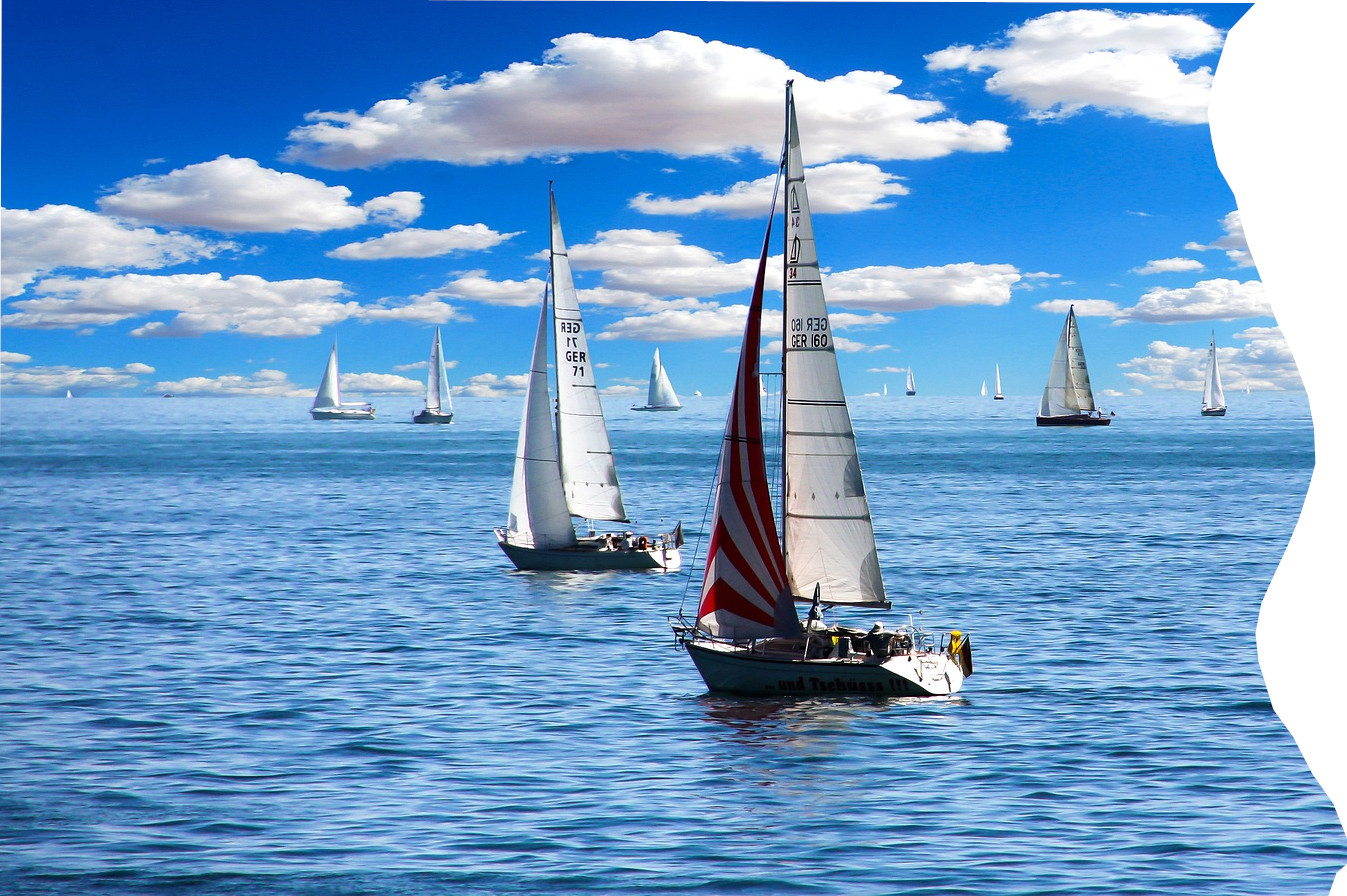
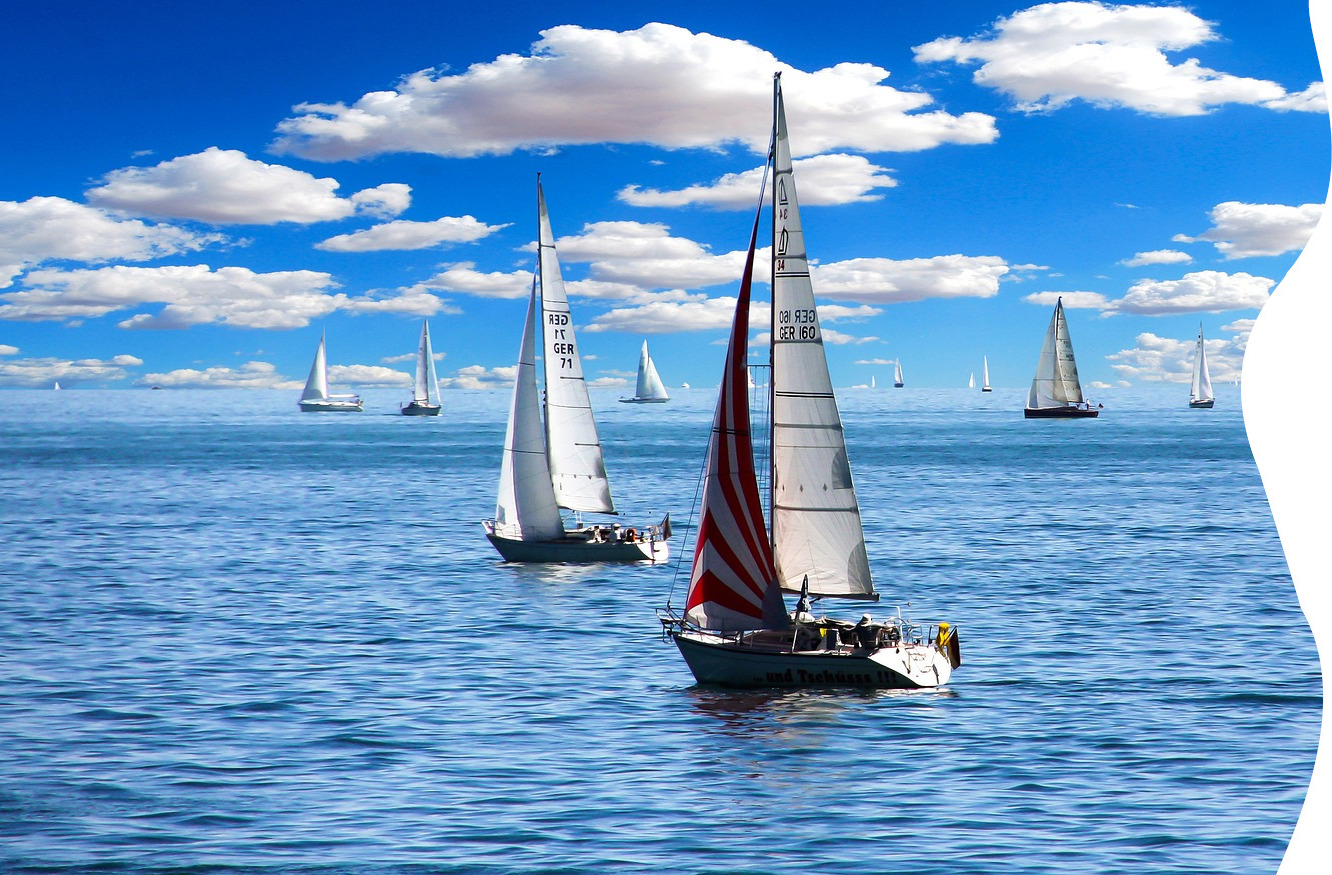
mobilka

diff --git a/style.css b/style.css
@@ -1,13 +1,16 @@
+
+@import url('https://fonts.googleapis.com/css?family=Amatic+SC|Bungee+Shade|Poiret+One&display=swap&subset=latin-ext');
 *{
     padding: 0;
     margin: 0;
+font-family: 'Poiret One', cursive;
 }
 
 main {
     background-image: url(lodka.jpg);
     background-repeat: no-repeat;
     background-position: right;
-    background-size: cover;
+    background-size:cover;
     width: 80%;
     height:100vh;
     padding: 0;
@@ -15,7 +18,10 @@ main {
     transition: 1s;
     float: left;
 }
-
+body
+{
+  overflow: hidden;
+}
 section
 {
   transition: 1s;
@@ -23,18 +29,23 @@ section
   width: 20%;
   height: 100vh;
 }
+#zaloguj
+{
+
+}
 #rozwiniecie
 {
   height: 50vh;
   display: none;
-  margin-top: 25vh;
-  overflow:visible;
-white-space: nowrap;
+  margin-top: 15vh;
+
 text-align: center;
+
 }
 #rozwiniecie form
 {
   font-size: 30px;
+  margin-top: 20px;
 }
 #zaloguj
 {
@@ -45,13 +56,15 @@ text-align: center;
   font-size: 80px;
 
 }
-h1{
- font-size: 50px;
+#rozwiniecie h1{
+ font-size: 80px;
 }
 #rozwiniecie p
 {
   font-size: 60px;
-  padding: 10px;
+  padding: 20px;
+
+
 }
 section input
 {
@@ -60,9 +73,10 @@ section input
       background: transparent;
       outline: none;
       color: black;
-      font-size: 16px;
+      font-size: 30px;
       padding: 10px;
-      width: 50%;
+      margin-bottom: 30px;
+      width: 70%;
 }
 section input[type="submit"]
 {
@@ -74,7 +88,9 @@ section input[type="submit"]
     font-size: 40px;
     width: 150px;
     border-radius: 20px;
-    margin: 20px;
+    margin: 40px;
+    font-weight: bold;
+
 }
 
 @media (max-width: 1000px)
@@ -96,7 +112,7 @@ section input[type="submit"]
   {
     width:100%;
     font-size: 130px;
-    white-space: normal;
+    white-space:nowrap;
     text-align: center;
   }
     #rozwiniecie h1
@@ -106,7 +122,7 @@ section input[type="submit"]
   #rozwiniecie form
   {
 
-  background-color: rgba(80,80,80,.3);
+
   color: white;
   }
   #rozwiniecie form p
@@ -118,10 +134,13 @@ section input[type="submit"]
       width: 70%;
       height: 100px;
       font-size: 60px;
+      color: black;
+      font-weight: bold;
     }
     ::placeholder
       {
-      color: darkblue;
+        font-weight: normal;
+    color: #EEDFFF;
       opacity: 1;
       }
     {

diff --git a/main.html b/main.html
@@ -24,7 +24,8 @@
         </div>
       </div>
       <div id="rozwiniecie">
-            <h1> Witaj w Fisznet</h1>
+            <h1 id="witaj"> Witaj <br>
+              w Fisznet</h1>
 
           </br>
             <form>
@@ -48,10 +49,13 @@
 
 
   function mouseOver() {
+
   document.getElementById('obraz').style.width = "70%";
   document.getElementById('sekcja').style.width = "30%";
   document.getElementById('zaloguj').style.display = "none";
       document.getElementById('rozwiniecie').style.display = "block";
+
+
 
   }
   function mouseover2() {
